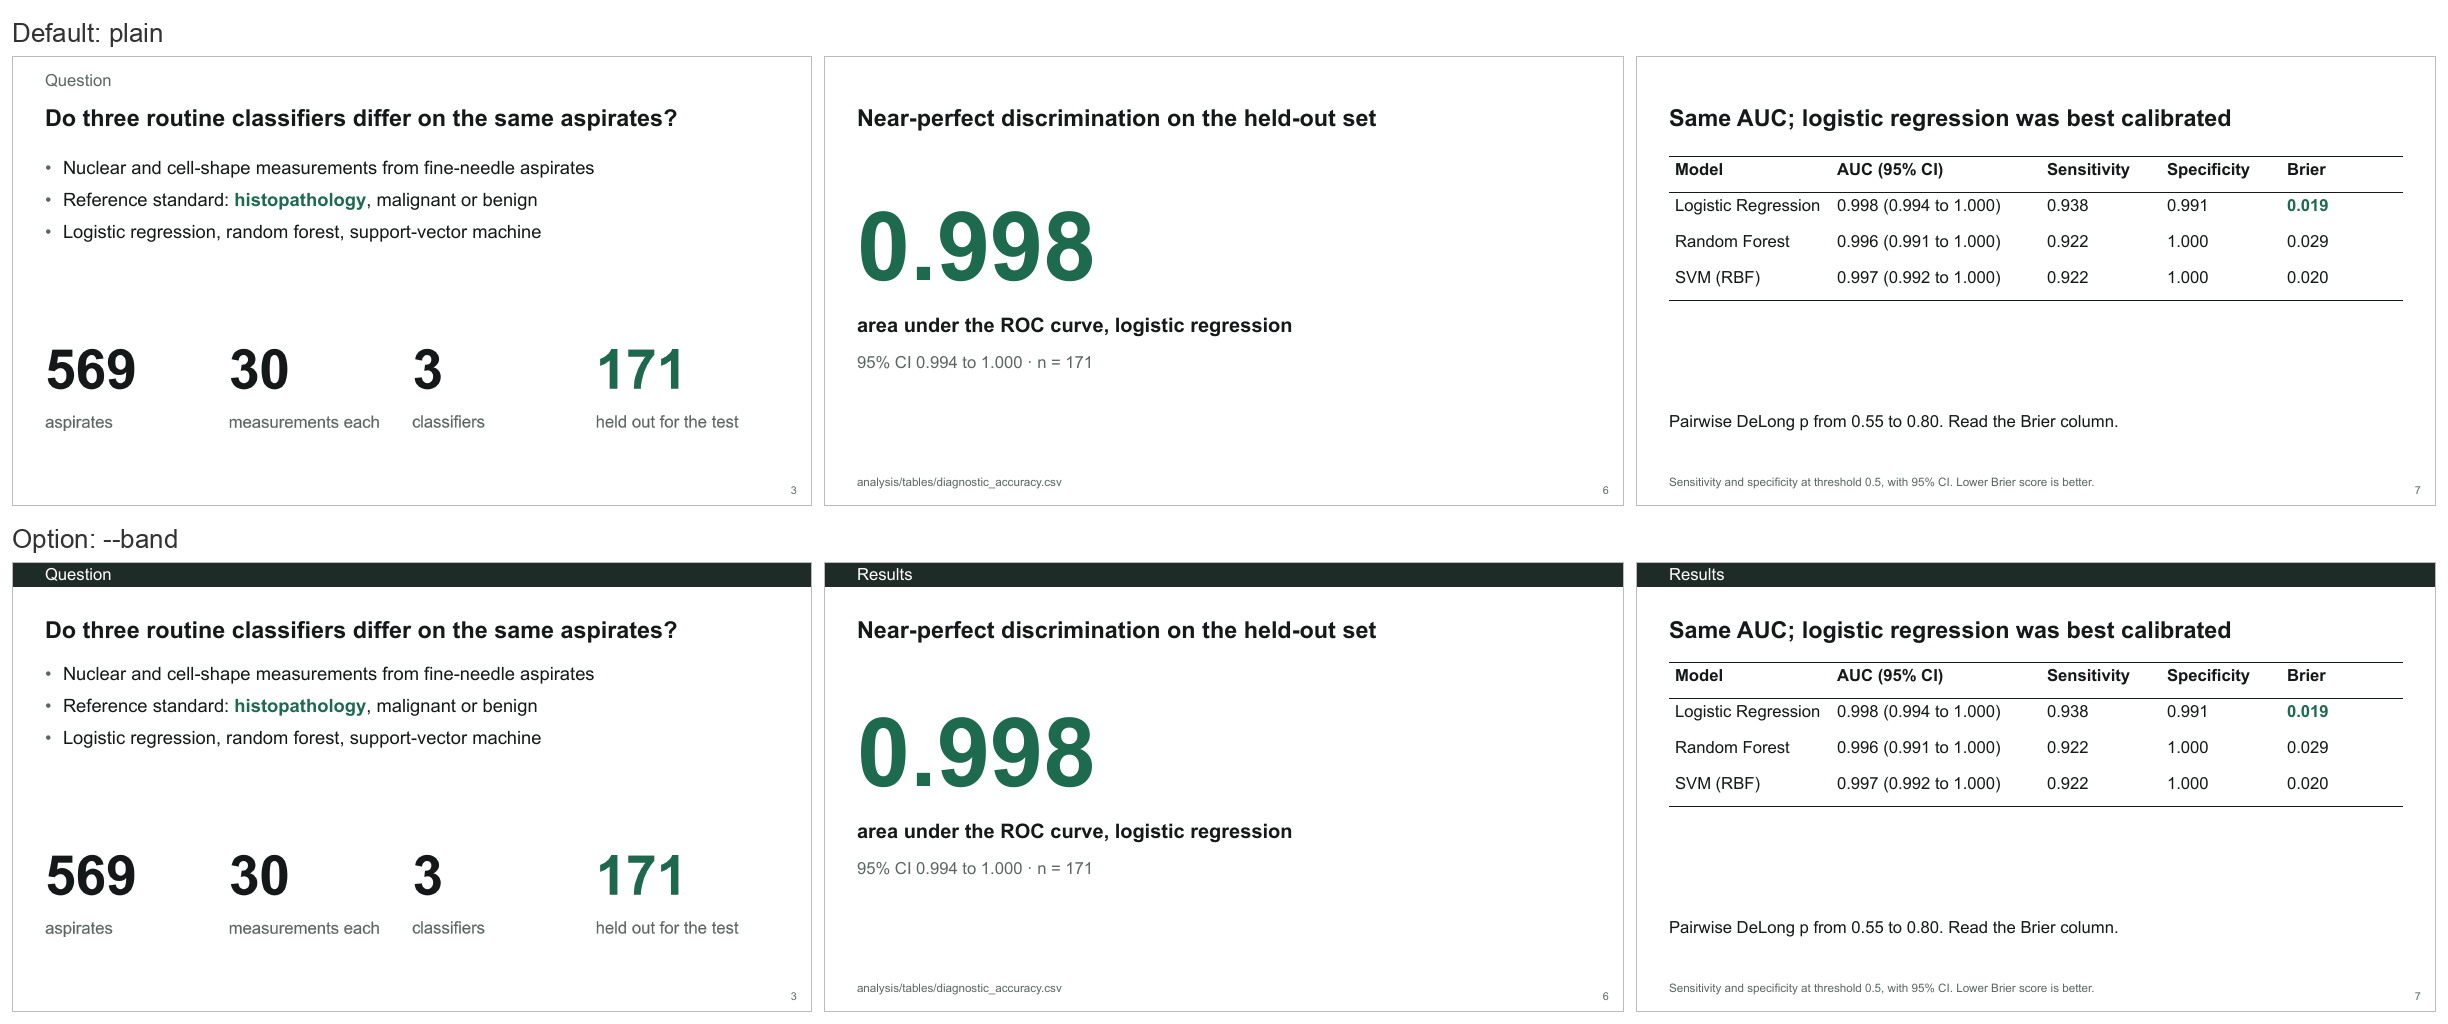
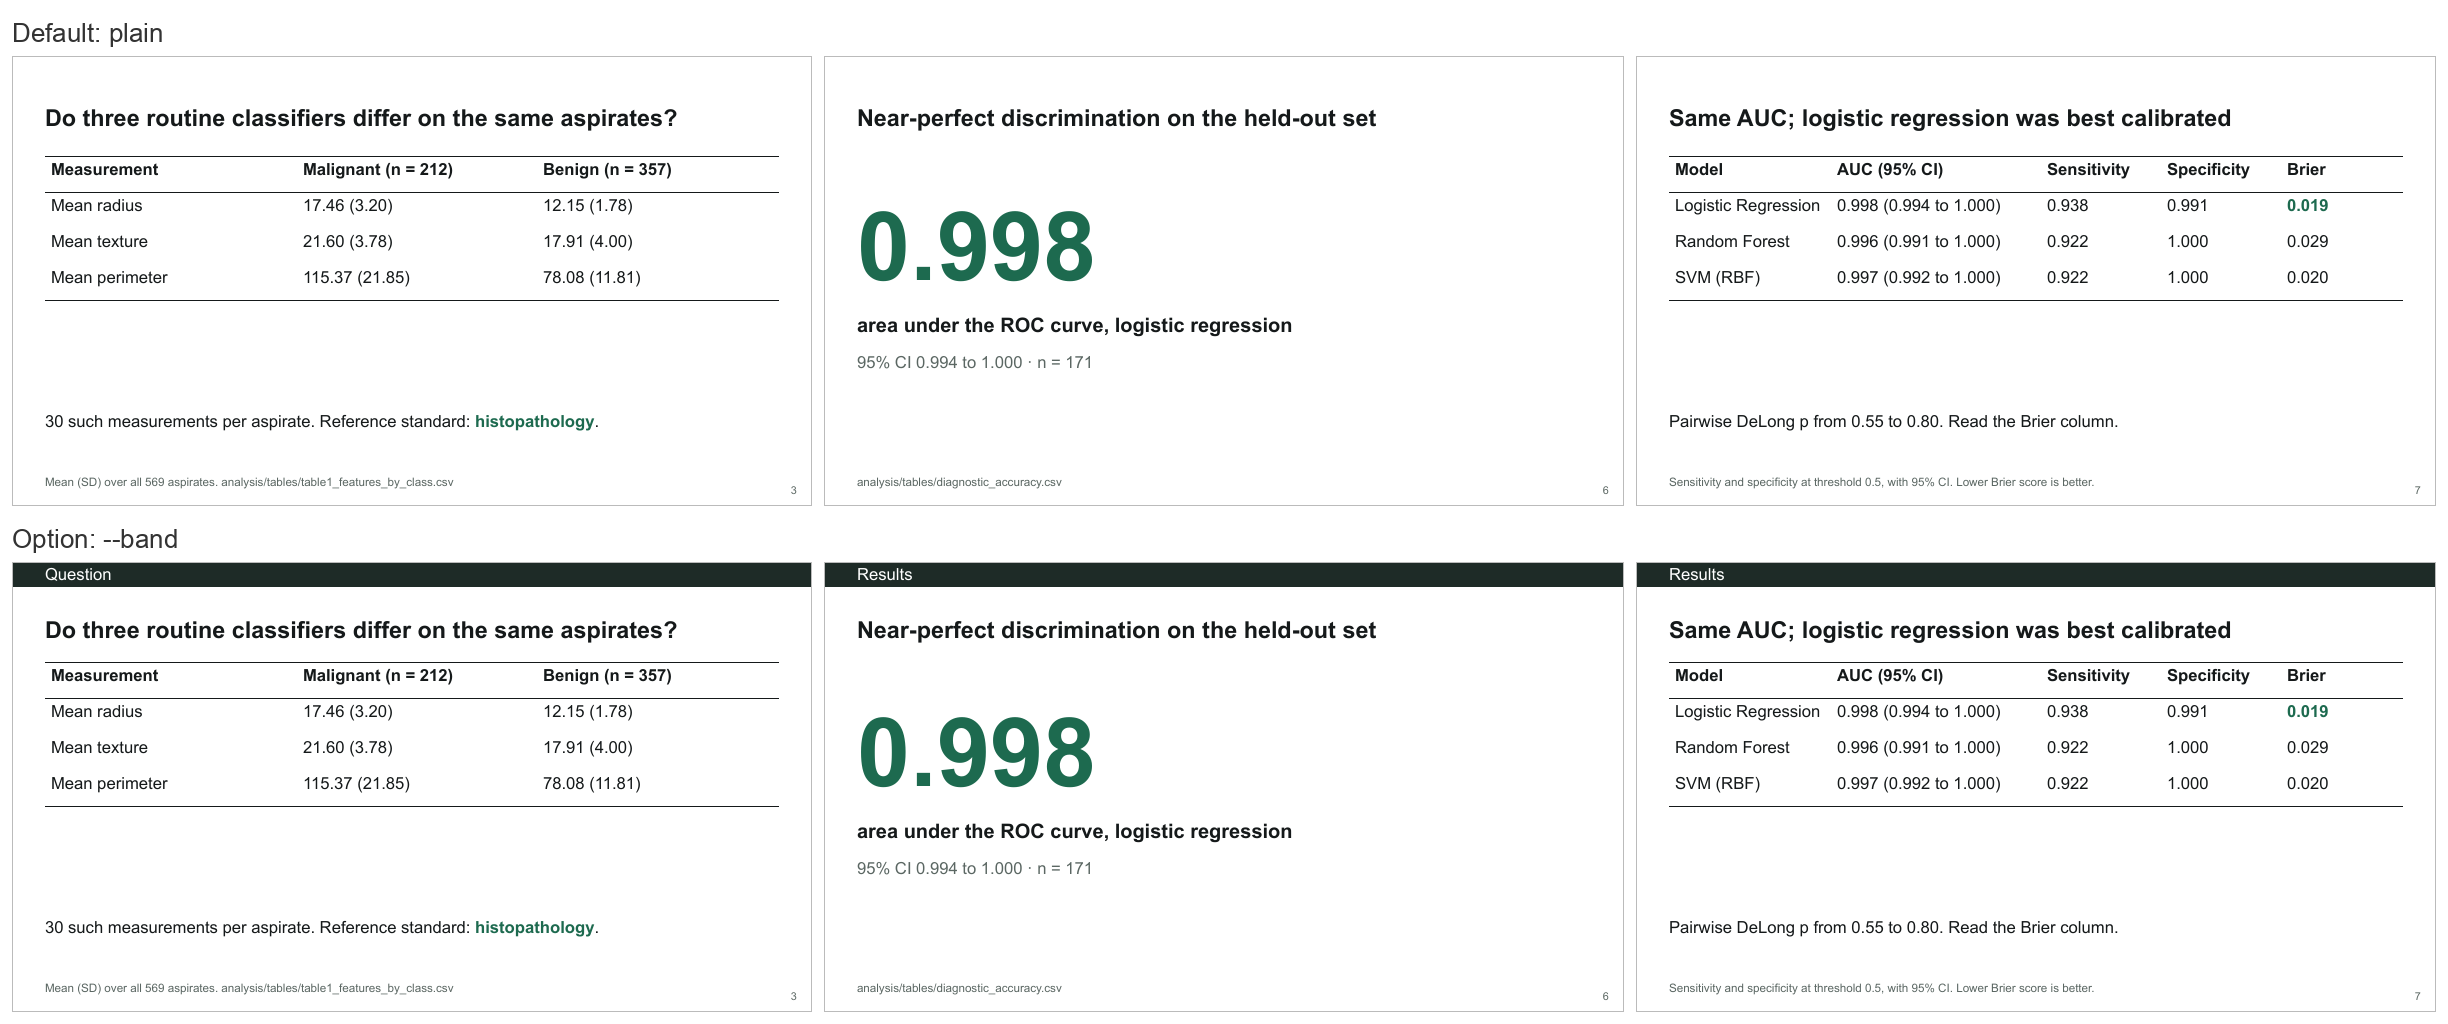
fix(demo): question slide shows the measurements by class as a table, not a strip of large numbers
Claude-Session: https://claude.ai/code/session_01RhVYtTXa7T2kwRafuoUNyp

diff --git a/demo/01_wisconsin_bc/presentation/build_deck.py b/demo/01_wisconsin_bc/presentation/build_deck.py
@@ -14,13 +14,8 @@ import csv
 import sys
 from pathlib import Path
 
-import tempfile
-
-import matplotlib
-matplotlib.use("Agg")
-import matplotlib.pyplot as plt   # noqa: E402
-from pptx import Presentation     # noqa: E402
-from pptx.util import Inches      # noqa: E402
+from pptx import Presentation
+from pptx.util import Inches
 
 HERE = Path(__file__).resolve().parent
 DEMO = HERE.parent
@@ -36,8 +31,11 @@ PALETTE = "pine"
 acc = {r["Model"]: r for r in csv.DictReader((TABLES / "diagnostic_accuracy.csv").open())}
 delong = list(csv.DictReader((TABLES / "auc_comparison_delong.csv").open()))
 lr = acc["Logistic Regression"]
+table1 = list(csv.DictReader((TABLES / "table1_features_by_class.csv").open()))
 diagnosis = [r["diagnosis"] for r in csv.DictReader((DEMO / "data" / "wisconsin_breast_cancer.csv").open())]
 n_all, n_mal = len(diagnosis), diagnosis.count("malignant")
+with (DEMO / "data" / "wisconsin_breast_cancer.csv").open() as fh:
+    n_feat = len(next(csv.reader(fh))) - 2          # every column but target and diagnosis
 n_test = sum(int(lr[k]) for k in ("TP", "FP", "FN", "TN"))
 test_mal, test_ben = int(lr["TP"]) + int(lr["FN"]), int(lr["FP"]) + int(lr["TN"])
 p_lo, p_hi = min(float(r["DeLong_p"]) for r in delong), max(float(r["DeLong_p"]) for r in delong)
@@ -58,26 +56,6 @@ def ci(row, key):
 COL_W = [2.7, 3.5, 2.0, 2.0, 2.03]     # inches; the interval column is the wide one
 
 
-def scale_strip(path):
-    """The study in four numbers, drawn as one strip: type only, in the palette's ink, accent and grey."""
-    pal = t.PALETTES[PALETTE]
-    items = [(str(n_all), "aspirates"), ("30", "measurements each"), ("3", "classifiers"),
-             (str(n_test), "held out for the test")]
-    plt.rcParams["font.family"] = ["Arial", "DejaVu Sans"]
-    fig = plt.figure(figsize=(12.2, 2.3))
-    ax = fig.add_axes([0, 0, 1, 1])
-    ax.set_axis_off()
-    for k, (number, label) in enumerate(items):
-        x = k * 0.25
-        last = k == len(items) - 1
-        ax.text(x, 0.40, number, fontsize=66, fontweight="bold", color="#" + (pal["accent"] if last else pal["ink"]),
-                ha="left", va="baseline")
-        ax.text(x, 0.12, label, fontsize=20, color="#" + pal["muted"], ha="left", va="baseline")
-    fig.savefig(path, dpi=200, transparent=True)
-    plt.close(fig)
-    return path
-
-
 # (layout, section name, {placeholder idx: text}, options)
 SLIDES = [
     ("Cover", None,
@@ -88,14 +66,15 @@ SLIDES = [
                 "자랑거리가 아니고, 보실 것은 보고 방식입니다. 참조표준, 흐름도, 구간, 그리고 모형 사이의 비교입니다.")),
     ("Disclosure", None, {0: "Disclosures", 1: "None", 13: "None"},
      dict(notes="이해관계와 연구비는 없습니다.")),
-    ("Content", "Question",
+    ("Result · Table", "Question",
      {0: "Do three routine classifiers differ on the same aspirates?",
-      1: ["Nuclear and cell-shape measurements from fine-needle aspirates",
-          "Reference standard: [[histopathology]], malignant or benign",
-          "Logistic regression, random forest, support-vector machine"]},
-     dict(strip=True,
-          notes="질문은 하나입니다. 같은 측정값을 넣었을 때 흔히 쓰는 세 모형이 서로 다른가. 점추정치를 나란히 놓는 것으로는 "
-                "답이 안 되고, 차이를 검정해야 합니다.")),
+      13: f"{n_feat} such measurements per aspirate. Reference standard: [[histopathology]].",
+      14: f"Mean (SD) over all {n_all} aspirates. analysis/tables/table1_features_by_class.csv"},
+     dict(table=[["Measurement", f"Malignant (n = {n_mal})", f"Benign (n = {n_all - n_mal})"]]
+          + [[r["Feature"].capitalize(), r["Malignant_mean_SD"], r["Benign_mean_SD"]] for r in table1[:3]],
+          widths=[4.2, 4.0, 4.03],
+          notes="질문은 하나입니다. 같은 측정값을 넣었을 때 흔히 쓰는 세 모형이 서로 다른가. 표는 넣는 값의 예입니다. "
+                "핵의 크기와 질감 같은 측정값이 악성과 양성에서 이만큼 다릅니다. 참조표준은 조직 진단입니다.")),
     ("Study Design", "Methods",
      {0: f"One aspirate is the unit; {n_test} were held out before fitting",
       13: f"{n_all} aspirates, {n_mal} malignant; public Wisconsin dataset",
@@ -155,18 +134,12 @@ def build(out, band=True):
             nd.put_rich(slot[idx], value)
         if section and 20 in slot:
             nd.fill(slot[20], section)
-        if opt.get("strip"):
-            body = slot[1]                     # all four, or python-pptx writes the others as zero
-            body.left, body.top, body.width, body.height = body.left, body.top, body.width, Inches(2.0)
-            with tempfile.TemporaryDirectory() as tmp:
-                s.shapes.add_picture(str(scale_strip(Path(tmp) / "strip.png")), Inches(t.MARGIN), Inches(4.15),
-                                     width=Inches(t.CW))
         if "picture" in opt:
             nd.fit_picture(slot[30], opt["picture"], opt.get("align", "l"))
         if "table" in opt:
             rows = opt["table"]
             tbl = t.plain_table(slot[21], len(rows), len(rows[0]), rows[0])
-            for col, width in zip(tbl.columns, COL_W):
+            for col, width in zip(tbl.columns, opt.get("widths", COL_W)):
                 col.width = Inches(width)
             for r, row in enumerate(rows[1:], start=1):
                 for c, text in enumerate(row):

diff --git a/CHANGELOG.md b/CHANGELOG.md
@@ -23,7 +23,7 @@
   limitation is short, so the left column is 3.9 in (was 4.9 in) and the text on what it does to
   the result gains the difference. `medsci_slides.pptx` is rebuilt. Demo 1's talk now marks
   emphasis in the accent colour, keeps each take-home line on one line and opens the question
-  slide with the study's four numbers drawn as one strip.
+  slide with a table of the measurements by class.
 - **`/present-paper`: guidance for borrowed figures, small edits and terms.** The design guidelines
   now list what a cropped panel must keep (axes, legend, scale bar, panel letter, side and
   sequence labels on an image), the form of the source line on a slide and what a shared copy adds to it, and what the row for

diff --git a/demo/01_wisconsin_bc/presentation/README.md b/demo/01_wisconsin_bc/presentation/README.md
@@ -6,8 +6,7 @@ A 10-minute `conference_oral` talk built on the medsci slide template
 ![The nine slides](contact_sheet.png)
 
 `build_deck.py` starts the deck with `new_deck.make_deck(palette="pine", band=True)` and fills it by
-layout name and placeholder idx: `put_rich` for the accent-colour spans, a strip of the study's
-four numbers drawn with matplotlib, `fit_picture` for the
+layout name and placeholder idx: `put_rich` for the accent-colour spans, `fit_picture` for the
 figures the analysis already produced, `plain_table` and `set_cell(accent=True)` for the table.
 `make_deck.sh` builds it and runs the two gates this repository requires of a deck:
 
